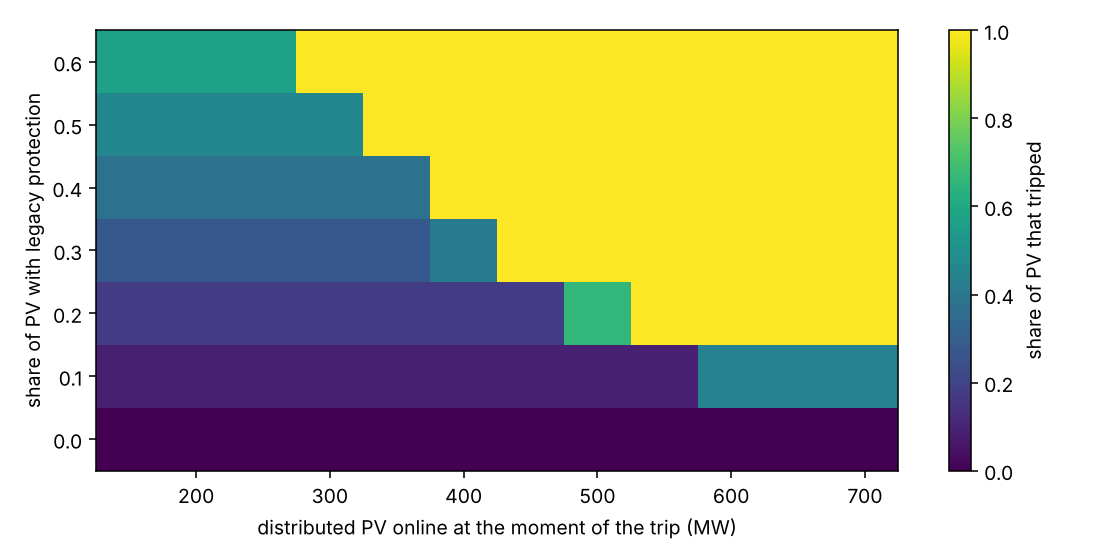
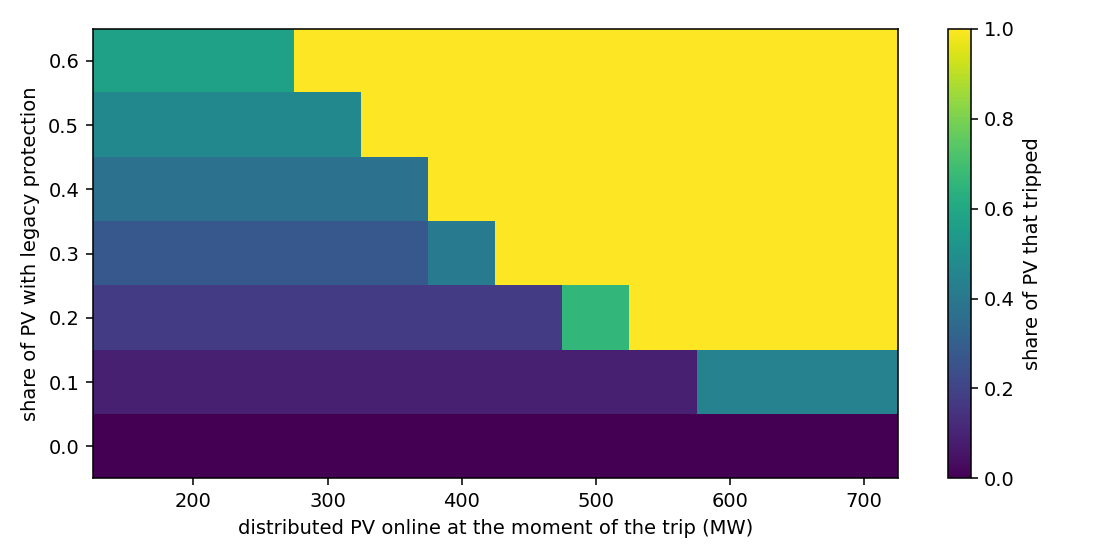
Add closed-form cascade threshold and check against simulation

diff --git a/experiments/run_threshold.py b/experiments/run_threshold.py
@@ -1,0 +1,148 @@
+"""Closed-form cascade threshold, checked against the simulation.
+ 
+Two conditions decide whether one unit trip collapses the grid:
+ 
+  1. CASCADE: after the unit and the legacy PV trip, frequency falls faster
+     than the modern inverters' RoCoF ride-through, so the modern PV trips too.
+         l* = (2 H S r_m / f0 - dP) / PV
+     l = legacy share, S = synchronous MVA online, r_m = modern RoCoF limit,
+     dP = the first unit lost, PV = PV online. Cascade when l > l*.
+ 
+  2. COLLAPSE: once all PV is lost, load shedding cannot hold frequency
+     above 47.5 Hz. This happens when PV online exceeds a level P_c, found
+     here by simulating the loss of the unit plus all PV at once.
+ 
+Collapse = condition 1 AND condition 2.
+ 
+Run from the repo root:  python -m experiments.run_threshold
+Writes results/threshold.csv and results/threshold_map.png
+"""
+
+from __future__ import annotations
+ 
+import sys
+from dataclasses import replace
+from pathlib import Path
+ 
+import matplotlib
+matplotlib.use("Agg")
+import matplotlib.pyplot as plt
+import numpy as np
+import pandas as pd
+ 
+ROOT = Path(__file__).resolve().parents[1]
+sys.path.insert(0, str(ROOT / "src"))
+ 
+import pv_cascade.model as model  # noqa: E402
+from pv_cascade import Case, simulate, sync_mva  # noqa: E402
+ 
+OUT = ROOT / "results"
+OUT.mkdir(exist_ok=True)
+
+F0 = 50.0  # nominal frequency
+MODERN_ROCOF = 2.0      # Hz/s, modern ride-through
+COLLAPSE_HZ = 47.5
+SEEDS = 4
+PV = list(range(300, 701, 25))
+LEGACY = list(np.round(np.arange(0.0, 0.71, 0.02), 2))
+
+# --------------------------------------------------------------------------------------------
+# 1. Formula for the legacy share that will just push RoCoF to the modern limit.
+# ---------------------------------------------------------------------------------------
+
+def predicted_legacy_limit(c: Case, pv: float, modern_rocof: float = MODERN_ROCOF) -> float:
+    """Largest legacy share that does NOT push RoCoF past the modern limit."""
+    s = sync_mva(replace(c, pv_mw=pv))
+    tolerable_loss = 2 * c.h_s * s * modern_rocof / F0   # MW that gives exactly r_m
+    return (tolerable_loss - c.initial_loss_mw) / pv
+
+# --------------------------------------------------------------------------------------------
+# 2. The PV level above which a full cascade cannot be arrested
+# ---------------------------------------------------------------------------------------
+
+def nadir_after_full_loss(c: Case, pv: float) -> float:
+    """Nadir when the unit and ALL PV are lost at t = 0 (PV blocks then cannot trip again)."""
+    original = model.trip_settings
+    model.trip_settings = lambda case, seed: (np.zeros(case.blocks), np.full(case.blocks, np.inf))
+    try:
+        r = simulate(replace(c, pv_mw=pv, initial_loss_mw=c.initial_loss_mw + pv), t_end=6.0)
+    finally:
+        model.trip_settings = original
+    return r["nadir_hz"]
+ 
+ 
+def collapse_pv_level(c: Case, lo: float = 200.0, hi: float = 800.0) -> float:
+    """Bisection: smallest PV whose full loss drives the nadir below 47.5 Hz."""
+    for _ in range(30):
+        mid = 0.5 * (lo + hi)
+        if nadir_after_full_loss(c, mid) < COLLAPSE_HZ:
+            hi = mid
+        else:
+            lo = mid
+    return hi
+
+# ---------------------------------------------------------------------------
+# 3. The simulation sweep
+# ---------------------------------------------------------------------------
+ 
+def sweep(c: Case) -> pd.DataFrame:
+    rows = []
+    for pv in PV:
+        for leg in LEGACY:
+            for seed in range(SEEDS):
+                r = simulate(replace(c, pv_mw=float(pv), legacy_share=float(leg)), seed=seed, t_end=4.0)
+                modern_mw = (1 - leg) * pv
+                cascade = r["pv_tripped_final_mw"] > leg * pv + 0.5 * modern_mw
+                rows.append({"pv_mw": pv, "legacy_share": leg, "seed": seed,
+                             "cascade": cascade, "collapse": r["nadir_hz"] < COLLAPSE_HZ})
+    return pd.DataFrame(rows).drop(columns="seed").groupby(["pv_mw", "legacy_share"]).mean().reset_index()
+ 
+ 
+def first_share_where(g: pd.DataFrame, column: str) -> float | None:
+    hit = g[g[column] >= 0.5]
+    return float(hit["legacy_share"].min()) if len(hit) else None
+ 
+ 
+# ---------------------------------------------------------------------------
+# 4. Run, compare, plot
+# ---------------------------------------------------------------------------
+ 
+def main() -> None:
+    c = Case()
+    p_c = collapse_pv_level(c)
+    mean = sweep(c)
+ 
+    rows = []
+    for pv, g in mean.groupby("pv_mw"):
+        rows.append({"pv_mw": pv,
+                     "predicted_legacy_limit": round(predicted_legacy_limit(c, pv), 3),
+                     "simulated_cascade_share": first_share_where(g, "cascade"),
+                     "simulated_collapse_share": first_share_where(g, "collapse"),
+                     "predicted_collapse": pv > p_c})
+    table = pd.DataFrame(rows)
+    table.to_csv(OUT / "threshold.csv", index=False)
+ 
+    pd.set_option("display.width", 200)
+    print(f"P_c (PV above which a full cascade cannot be arrested): {p_c:.0f} MW\n")
+    print(table.to_string(index=False))
+ 
+    grid = mean.pivot(index="legacy_share", columns="pv_mw", values="collapse")
+    fig, ax = plt.subplots(figsize=(8, 4.5))
+    im = ax.imshow(grid.values, origin="lower", aspect="auto", cmap="Reds", vmin=0, vmax=1,
+                   extent=[PV[0] - 12.5, PV[-1] + 12.5, LEGACY[0] - 0.01, LEGACY[-1] + 0.01])
+    fig.colorbar(im, label="share of runs that collapse")
+    pv_line = np.linspace(PV[0], PV[-1], 200)
+    ax.plot(pv_line, [predicted_legacy_limit(c, p) for p in pv_line], "k-", lw=2,
+            label="formula: cascade above this line")
+    ax.axvline(p_c, color="k", ls="--", lw=1.5, label=f"P_c = {p_c:.0f} MW: collapse right of this line")
+    ax.set_ylim(LEGACY[0], LEGACY[-1])
+    ax.set_xlabel("distributed PV online at the moment of the trip (MW)")
+    ax.set_ylabel("share of PV with legacy protection")
+    ax.legend(loc="upper right", fontsize=8)
+    fig.tight_layout()
+    fig.savefig(OUT / "threshold_map.png", dpi=150)
+    print("\nWrote results/threshold.csv and results/threshold_map.png")
+ 
+ 
+if __name__ == "__main__":
+    main()

diff --git a/explanations/Companion_run_threshold.md b/explanations/Companion_run_threshold.md
@@ -1,0 +1,123 @@
+ # Companion: run_threshold.py in plain language
+
+## The question
+`run_cascade.py` found, by brute-force simulation, where one unit trip turns
+into a collapse. This script asks whether that boundary can be written down
+as a formula, and checks the formula against the simulation.
+
+## The idea in two steps
+A collapse needs two things to go wrong, one after the other.
+
+**Step 1: the cascade.** The unit trips. Frequency starts to fall. The legacy
+inverters see it first (they trip near 49.5 Hz or at a RoCoF of 0.4 to
+1.0 Hz/s), and within about 0.2 s almost all of them are gone. Now the grid
+has lost the unit plus the legacy PV. Frequency falls faster. If it falls
+faster than 2 Hz/s, the modern inverters' RoCoF limit, they trip too. Then all
+the PV is gone.
+
+How fast frequency falls right after a loss is fixed by the swing equation:
+
+    RoCoF = f0 × (power lost) / (2 × H × S)
+
+Here f0 = 50 Hz, H = inertia constant (4 s), and S = synchronous MVA online.
+Set RoCoF equal to the modern limit r_m and solve for the power lost. That
+gives the largest loss the modern inverters ride through:
+
+    tolerable loss = 2 × H × S × r_m / f0
+
+The loss is the unit (dP = 130 MW) plus the legacy PV (l × PV). So the modern
+PV trips when
+
+    dP + l × PV > tolerable loss,  i.e.  l > l* = (2 H S r_m / f0 − dP) / PV
+
+That is the formula.
+
+**Worked example.** PV = 500 MW. Conventional plants then make 1000 − 500 =
+500 MW, which is above the 450 MW must-run, so S = 500 / 0.8 = 625 MVA.
+Tolerable loss = 2 × 4 × 625 × 2 / 50 = 200 MW. The unit already takes 130 MW,
+so the legacy PV may take at most 70 MW: l* = 70 / 500 = 0.14. If more than 14%
+of the 500 MW has legacy settings, the whole fleet trips.
+
+**Step 2: can load shedding catch it?** After a full cascade the grid has lost
+130 MW + all the PV. Load shedding removes up to 40% of load. If the PV online
+is large enough, that is still not enough and frequency goes below 47.5 Hz.
+That PV level is P_c. It has no neat formula because load shedding is a
+staircase, so the script finds it by simulation.
+
+## Block by block
+
+**Header and imports.** Loads the existing model from `src/pv_cascade`. Sets
+the constants: 50 Hz, 2 Hz/s modern limit, 47.5 Hz collapse line, 4 seeds, PV
+from 300 to 700 MW in 25 MW steps, legacy share from 0 to 0.7 in 0.02 steps.
+
+**`predicted_legacy_limit(c, pv)`.** The formula. It works out S for this PV
+level (using `sync_mva`, which applies the must-run floor), computes the
+tolerable loss, takes away the unit, and divides by PV.
+
+**`nadir_after_full_loss(c, pv)`.** Runs the existing simulation with the unit
+and all the PV lost at t = 0. To stop the PV from being counted twice, it
+temporarily replaces the trip settings with ones that can never fire
+(0 Hz and infinite RoCoF), then puts the original back. Returns the lowest
+frequency reached.
+
+**`collapse_pv_level(c)`.** Bisection: halves the interval 200 to 800 MW thirty
+times, keeping the half where the nadir crosses 47.5 Hz. The answer is P_c.
+
+**`sweep(c)`.** For every PV level, legacy share and seed, runs the real event
+(4 s is enough; the nadir comes at about 2 s). Records two things:
+- cascade: did more than half of the modern PV trip?
+- collapse: did frequency go below 47.5 Hz?
+Then averages over the seeds.
+
+**`first_share_where(g, column)`.** For one PV level, the smallest legacy share
+at which at least half the runs cascade (or collapse).
+
+**`main()`.** Computes P_c, runs the sweep, and builds the comparison table:
+formula against simulation, at every PV level. Saves it to
+`results/threshold.csv`. Draws the map: red = share of runs that collapse,
+solid line = the formula, dashed line = P_c. Saves `results/threshold_map.png`.
+
+## What it found
+- P_c = 451 MW.
+- Collapse happens exactly where both conditions hold. Below 451 MW nothing
+  collapses at any legacy share (load shedding catches every cascade). Above
+  it, the collapse boundary equals the cascade boundary at every PV level.
+- The formula sits below the simulated boundary by 0.01 to 0.08 in legacy
+  share. It is never above it. So it errs on the safe side: it warns slightly
+  early.
+
+| PV (MW) | formula l* | simulated cascade | simulated collapse |
+|---|---|---|---|
+| 450 | 0.20 | 0.28 | none |
+| 500 | 0.14 | 0.18 | 0.18 |
+| 550 | 0.09 | 0.12 | 0.12 |
+| 600 | 0.08 | 0.10 | 0.10 |
+| 700 | 0.07 | 0.08 | 0.08 |
+
+## Why the formula warns early
+It uses the RoCoF right at the moment of loss. In the simulation the modern
+inverters see the RoCoF a few tenths of a second later, measured over a 0.2 s
+window. By then load damping and the governors have started to push back,
+so the real fall is a little slower. The gap is largest around 425 to 475 MW,
+where S is still changing with PV.
+
+## What it means
+The legacy share in Cyprus is not public. The formula turns that unknown into
+the output: for each PV level it gives the largest legacy share the grid can
+tolerate. Whoever does know the real share (the DSO, the regulator) can read
+the answer straight off the line.
+
+It also names every lever, because each one appears in the formula:
+- r_m, the modern RoCoF ride-through. Raising it from 2 to 3 Hz/s lifts l* at
+  600 MW from 0.08 to 0.23 (simulation: between 0.25 and 0.3).
+- S, the synchronous MVA, set by the must-run level. More must-run means more
+  inertia and a higher l*.
+- dP, the largest unit. A smaller largest unit leaves more room.
+- l itself, by retrofitting legacy settings.
+
+## What it does not show
+- Every number is still the model's assumption, not a Cyprus measurement.
+- One bus. No voltage dips, which trip inverters near a fault first.
+- The modern limit is the same 2 Hz/s for every inverter, so the cascade is a
+  sharp jump. With a spread of real settings it would be a smoother fold.
+- P_c depends on the assumed load-shedding stages.

diff --git a/README.md b/README.md
@@ -1,8 +1,8 @@
 # cy-pv-trip-cascade
 
-**Question.** When a large unit trips at a sunny hour, how many distributed PV inverters disconnect because of their own protection settings, and when does that turn one trip into a system-wide collapse?
+**Question.** When a large unit trips at a sunny hour, how many distributed PV inverters disconnect because of their own protection settings, and when does that turn one trip into a system wide collapse?
 
-**Why Cyprus, why now.** In the 2025 Iberian blackout, renewable plants disconnected below their required thresholds and more than 2.5 GW was lost in about 50 seconds ([pv magazine on the ENTSO-E report](https://www.pv-magazine.com/2026/03/23/entso-e-report-finds-systemic-failures-behind-2025-iberian-blackout/)). In South Australia in 2016, nine wind farms tripped on repeated voltage dips and the state went dark. A 2017 study of the Cyprus grid found a 2030 case where a cascade started from small PV systems tripping ([JRC workshop](https://smart-networks-energy-transition.ec.europa.eu/sites/default/files/documents/events/regional_workshops/south-eastern_region/Grid-Integration-of-Variable-RES-in-Cyprus-Chondrogiannis.pdf)).
+**Why Cyprus and why now.** In the 2025 Iberian blackout, renewable plants disconnected below their required thresholds and more than 2.5 GW was lost in about 50 seconds ([pv magazine on the ENTSO-E report](https://www.pv-magazine.com/2026/03/23/entso-e-report-finds-systemic-failures-behind-2025-iberian-blackout/)). In South Australia in 2016, nine wind farms tripped on repeated voltage dips and the state went dark. A 2017 study of the Cyprus grid found a 2030 case where a cascade started from small PV systems tripping ([JRC workshop](https://smart-networks-energy-transition.ec.europa.eu/sites/default/files/documents/events/regional_workshops/south-eastern_region/Grid-Integration-of-Variable-RES-in-Cyprus-Chondrogiannis.pdf)).
 
 **What is already funded.** KIOS's INVERGE works on a single inverter that supports the grid during faults. The **aggregate** question — thousands of inverters with mixed settings, coupled through frequency — was not found in any active Cyprus project. This is the least-covered of the five ideas.
 
